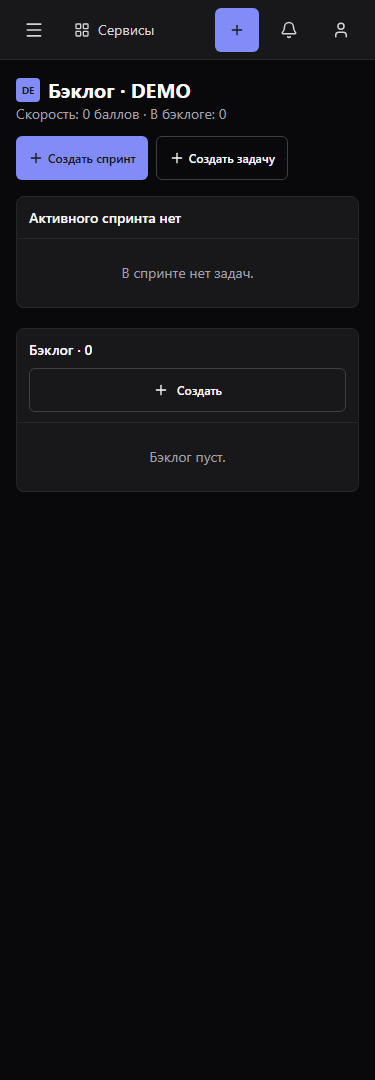
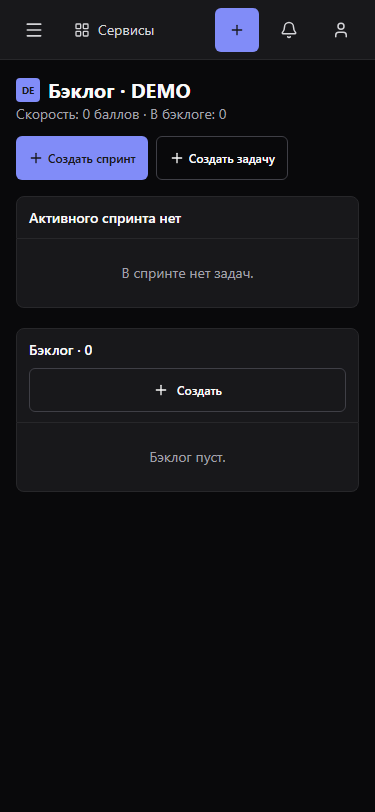
test(ui): capture exact new-task entry viewports

diff --git a/frontend/e2e/smoke.spec.ts b/frontend/e2e/smoke.spec.ts
@@ -161,8 +161,12 @@ test.describe('smoke', () => {
       .locator('main')
       .getByRole('button', { name: /^Создать$|Создать задачу|^Create$|Create issue/i })
     await expect(actions).toHaveCount(2)
-    for (const width of [375, 1920, 2560]) {
-      await page.setViewportSize({ width, height: 1080 })
+    for (const [width, height] of [
+      [375, 812],
+      [1920, 1080],
+      [2560, 1440],
+    ] as const) {
+      await page.setViewportSize({ width, height })
       expect(await page.evaluate(() => document.documentElement.scrollWidth <= innerWidth)).toBe(
         true,
       )

diff --git a/docs/assets/screens/new-task-pm-entry-20261020/README.md b/docs/assets/screens/new-task-pm-entry-20261020/README.md
@@ -1,7 +1,7 @@
 # New Task Entry
 
 Production Tracker components with synthetic browser API/SSO fixtures.
-Chromium, one bounded case, widths 375/1920/2560, 1080px height.
+Chromium, one bounded case: 375x812, 1920x1080, 2560x1440.
 The empty backlog actions navigate to the existing Fleet `/chats/new` route
 with the immutable project UUID and perform no issue/Draft creation POST.
 The destination document is a navigation fixture, not live Fleet acceptance.
